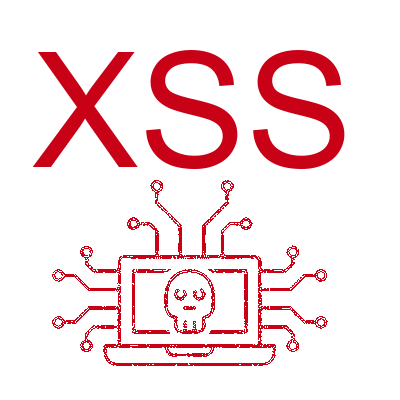
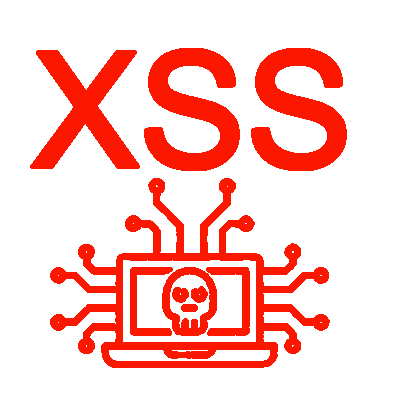
navbar css amended

diff --git a/public/assets/css/dark.css b/public/assets/css/dark.css
@@ -12,16 +12,8 @@
     background-image: linear-gradient(to right, rgb(24, 24, 24), rgb(10, 10, 10));
 }
 
-.columnRight.dark {
-    background-color: rgb(30, 30, 30);
-}
-
-.columnRight.light {
-    background-color: rgb(200, 200, 200);
-}
-
 body {
-    background-color: rgb(0, 0, 0);
+    background-image: url("../images/pos.png");
 }
 
 main {
@@ -29,12 +21,12 @@ main {
 }
 
 nav {
-    background-image: linear-gradient(rgba(40, 32, 54, 0), rgba(40, 32, 54, 1), rgba(40, 32, 54, 0));
+    background-image: linear-gradient(rgba(80, 110, 130, 0.8), rgb(80, 110, 130, 1), rgba(80, 110, 130, 0.8));
 }
 
 footer {
     color: blanchedalmond;
-    background-image: repeating-linear-gradient(to right, rgba(40, 32, 54, 0), rgba(40, 32, 54, 1), rgba(40, 32, 54, 0));
+    background-image: repeating-linear-gradient(to right, rgba(80, 110, 130, 0), rgb(80, 110, 130, 1), rgba(80, 110, 130, 0));
 }
 
 h2 {
@@ -57,6 +49,10 @@ input {
 
 button {
     background-color: antiquewhite;
+}
+
+.icon:hover {
+    filter:saturate(100%)
 }
 
 .pageNavigation {

diff --git a/public/assets/css/light.css b/public/assets/css/light.css
@@ -13,7 +13,7 @@
 }
 
 body {
-    background-color: rgb(255, 255, 255);
+    background-image: url("../images/neg.png");
 }
 
 main {
@@ -21,14 +21,14 @@ main {
 }
 
 nav {
-    background-image: linear-gradient(rgba(40, 32, 54, 0.7), rgba(40, 32, 54, 0.4), rgba(40, 32, 54, 0.7));
+    background-image: linear-gradient(rgba(80, 110, 130, 0.8), rgb(80, 110, 130, 1), rgba(80, 110, 130, 0.8));
 }
 
 footer {
     color: blanchedalmond;
-    background-image: repeating-linear-gradient(to right, rgba(40, 32, 54, 0), rgba(40, 32, 54, 0.8), rgba(40, 32, 54, 0));
+    background-image: repeating-linear-gradient(to right, rgba(80, 110, 130, 0), rgb(80, 110, 130, 1), rgba(80, 110, 130, 0));
 }
-
+    
 h2 {
     color: rgb(121, 91, 52);
 }
@@ -49,6 +49,10 @@ input {
 
 button {
     background-color: antiquewhite;
+}
+
+.icon:hover {
+    filter:saturate(100%)
 }
 
 .pageNavigation {

diff --git a/public/assets/css/main.css b/public/assets/css/main.css
@@ -31,7 +31,7 @@ main {
 nav {
     border-radius: 2em;
     margin-bottom: 2vh;
-    min-height: 13vh;
+    min-height: 12vh;
     display: flex;
     flex-direction: row;
     justify-content: space-around;
@@ -86,6 +86,7 @@ code {
     max-width: 4vw;
     height: auto;
     border-radius: 1em;
+    filter:saturate(5%);
 }
 
 .icon:hover {
@@ -102,7 +103,6 @@ code {
     margin: auto;
     width: 30vw;
     height: auto;
-    opacity: 75%;
 }
 
 .node {

diff --git a/public/pages/design/design.html b/public/pages/design/design.html
@@ -197,7 +197,7 @@ app.listen(PORT, () => console.log("Server is running on port", PORT));
                     Code Comments
                 </li>
                 <li>
-                    Code CommentsPrimitive Obsession
+                    Primitive Obsession
                 </li>
                 <li>
                     Feature Envy
